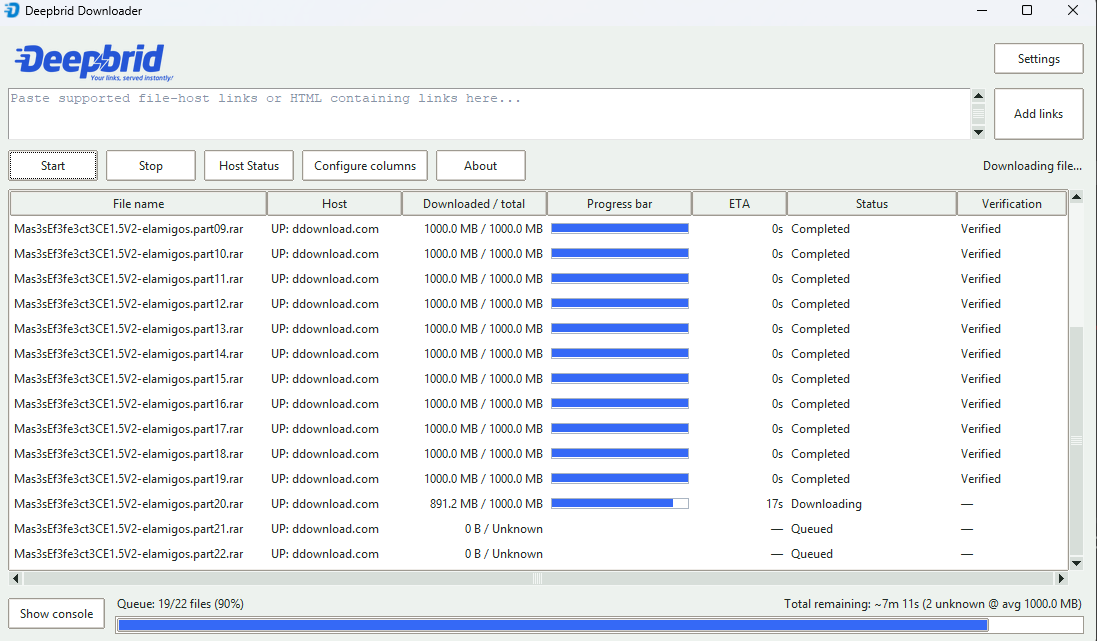
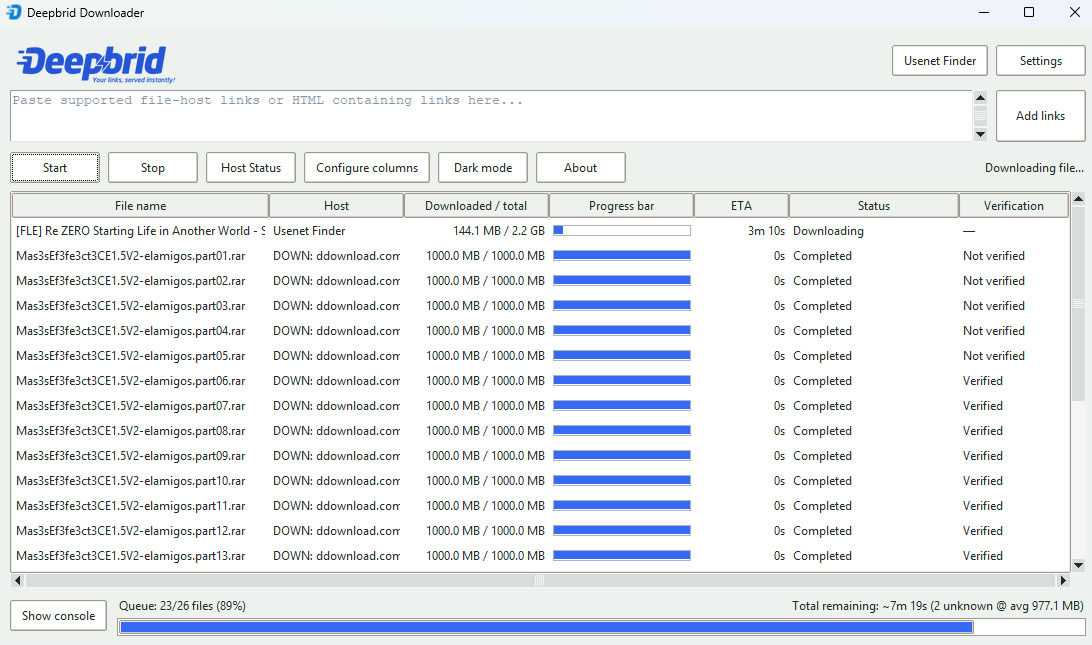
Prepare Usenet Finder 0.4.0 release
Document the latest Usenet Finder screenshots and restored-link behavior, update the application version, and include refreshed dashboard/settings screenshots.

Changed region(s): [[0.0, 0.0, 1.0, 1.0], [0.0, 0.0, 0.1245, 0.0312]]

diff --git a/src/app_info.py b/src/app_info.py
@@ -8,7 +8,7 @@ import urllib.parse
 import urllib.request
 from dataclasses import dataclass
 
-__version__ = "0.3.0"
+__version__ = "0.4.0"
 GITHUB_REPOSITORY_URL = "https://github.com/developper001/Deepbrid-Downloader"
 GITHUB_LATEST_RELEASE_URL = (
     "https://api.github.com/repos/developper001/Deepbrid-Downloader/releases/latest"

diff --git a/README.md b/README.md
@@ -77,7 +77,11 @@ If premium-link generation fails transiently, the app makes up to five attempts 
 
 The **Usenet Finder** button opens a separate window that searches Usenet results and resolves selected entries into file links. Enter a query, optionally enter a category identifier, and select a result to resolve its file list. Use **Add selected to queue** or **Add all accessible to queue** to add resolved files with valid HTTP(S) links. Unavailable files cannot be queued. Usenet downloads use the URLs returned by Finder and the normal resumable queue transfer; check the queue and click **Start** to download them.
 
-The last query and category are saved and restored when the Finder window is reopened. If the first page of that search is still cached, it is shown immediately without requiring another Search click. Finder also restores the last selected result and its resolved file links while they remain within the configured cache duration. Search result pages and successfully resolved packages are cached locally in encrypted form. Their shared cache duration is configurable in Settings from 1 to 720 hours (24 hours by default); use **Usenet settings** in the Finder window to change it or clear both caches.
+![Usenet Finder search results and resolved files](src/img/UsenetFinder.png)
+
+The last query and category are saved and restored when the Finder window is reopened. If the first page of that search is still cached, it is shown immediately without requiring another Search click. Finder also restores the last selected row and its resolved file links while they remain within the configured cache duration. Search result pages and successfully resolved packages are cached locally in encrypted form. Their shared cache duration is configurable in Settings from 1 to 720 hours (24 hours by default); use **Usenet settings** in the Finder window to change it or clear both caches.
+
+![Usenet Finder search history and category selection](src/img/UsenetFinderSearchHistoryAndCategory.png)
 
 The Finder checks the dedicated browser connection periodically with a lightweight local status check. Cached results show their expiry time. Recent searches can be selected again; choose **[Clear search history]** in the search history or use **Clear search history** in Settings to remove them. Result categories populate the category picker, and loaded results can be filtered or sorted by clicking a column heading. Use **Test browser connection** in Settings to check the dedicated browser connection on demand.
 
